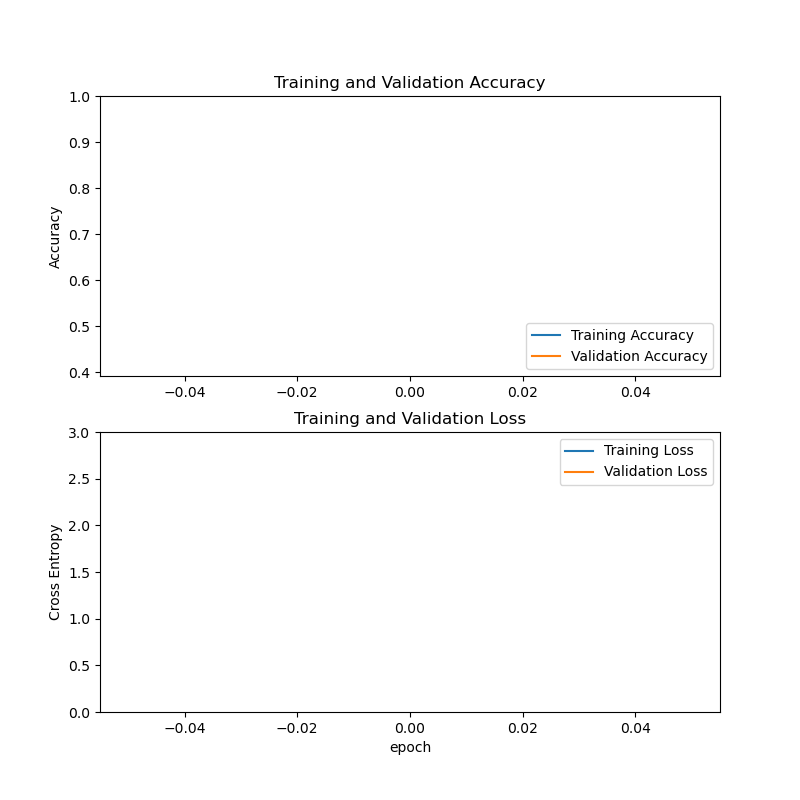
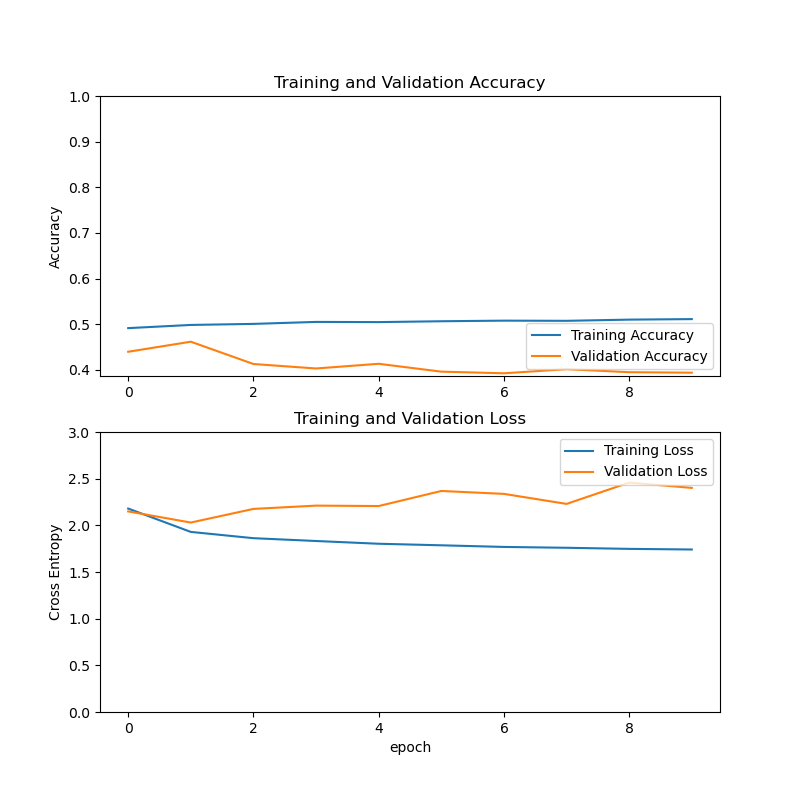
Adding custom cnn

diff --git a/custom/train.py b/custom/train.py
@@ -12,6 +12,7 @@ File description:
 ################################################################################
 # Imports
 from packages import *
+from model import build_model
 
 
 ################################################################################
@@ -38,12 +39,12 @@ if __name__ == "__main__":
     # image generators
     datagen = tf.keras.preprocessing.image.ImageDataGenerator(
         rescale=1./255,
-        rotation_range=30,
-        horizontal_flip=True,
-        vertical_flip=True,
-        width_shift_range=0.3,
-        height_shift_range=0.3,
-        brightness_range=[0.3, 1.3],
+        #rotation_range=30,
+        #horizontal_flip=True,
+        #vertical_flip=True,
+        #width_shift_range=0.3,
+        #height_shift_range=0.3,
+        #brightness_range=[0.3, 1.3],
         validation_split=VALIDATION_SPLIT
     )
 
@@ -62,27 +63,7 @@ if __name__ == "__main__":
     )
 
     # ----- MODEL ----- #
-    # build model
-    mobilenet = tf.keras.applications.MobileNetV2(
-        input_shape=(IMAGE_WIDTH, IMAGE_HEIGHT, IMAGE_CHANNELS),
-        weights="imagenet",
-        include_top=False
-    )
-    mobilenet.trainable = False
-
-    inputs = tf.keras.Input(shape=(IMAGE_WIDTH, IMAGE_HEIGHT, IMAGE_CHANNELS))
-    x = inputs
-    x = mobilenet(x)
-    x = tf.keras.layers.Conv2D(filters=128, kernel_size=3, activation="relu")(x)
-    x = tf.keras.layers.Dropout(rate=0.5)(x)
-    x = tf.keras.layers.GlobalAveragePooling2D()(x)
-    x = tf.keras.layers.Dense(units=num_classes, activation="softmax")(x)
-    outputs = x
-
-    model = tf.keras.Model(
-        inputs=inputs,
-        outputs=outputs
-    )
+    model = build_model(num_classes=num_classes)
 
     # compile model
     model.compile(
@@ -129,63 +110,6 @@ if __name__ == "__main__":
     plt.xlabel('epoch')
 
     plt.savefig(os.path.join(SAVE_DIR, "plots"))
-
-    # ----- FINE TUNE ---- #
-    """
-    print(f'\n\nFINE TUNE\n\n')
-    
-    # re-build model
-    # unfreeze base
-    mobilenet.trainable = True
-    for layer in mobilenet.layers[:NUM_LAYERS_FREEZE]:
-        layer.trainable = False  # freeze early layers
-
-    # re-compile model
-    model.compile(
-        loss=tf.keras.losses.categorical_crossentropy,
-        optimizer=tf.keras.optimizers.SGD(learning_rate=LEARNING_RATE_FINE_TUNING),
-        metrics=["accuracy"]
-    )
-
-    model.summary()
-
-    # continue training
-    history = model.fit(
-        x=train_generator,
-        steps_per_epoch=len(train_generator),
-        epochs=NUM_EPOCHS_FINE_TUNING,
-        validation_data=val_generator,
-        validation_steps=len(val_generator)
-    )
-
-    # fine-tuning plots
-    acc = history.history['accuracy']
-    val_acc = history.history['val_accuracy']
-
-    loss = history.history['loss']
-    val_loss = history.history['val_loss']
-
-    plt.figure(figsize=(8, 8))
-    plt.grid()
-    plt.subplot(2, 1, 1)
-    plt.plot(acc, label='Training Accuracy')
-    plt.plot(val_acc, label='Validation Accuracy')
-    plt.legend(loc='lower right')
-    plt.ylabel('Accuracy')
-    plt.ylim([min(plt.ylim()), 1])
-    plt.title('Training and Validation Accuracy')
-
-    plt.subplot(2, 1, 2)
-    plt.plot(loss, label='Training Loss')
-    plt.plot(val_loss, label='Validation Loss')
-    plt.legend(loc='upper right')
-    plt.ylabel('Cross Entropy')
-    plt.ylim([0, 3.0])
-    plt.title('Training and Validation Loss')
-    plt.xlabel('epoch')
-
-    plt.savefig(os.path.join(SAVE_DIR, "plots_finetune"))
-    """
 
     # ----- SAVE ----- #
     # save model

diff --git a/custom/model.py b/custom/model.py
@@ -1,0 +1,54 @@
+"""
+Michael Patel
+April 2021
+
+Project description:
+    Use TensorFlow to create a Simpsons character classifier that runs on an Android device
+
+File description:
+    For model definitions
+
+"""
+################################################################################
+# Imports
+from packages import *
+
+
+################################################################################
+def build_model(num_classes):
+    def block(t, filters):
+        t = tf.keras.layers.Conv2D(
+            filters=filters,
+            kernel_size=3,
+            padding="same",
+            activation=tf.keras.activations.relu
+        )(t)
+        t = tf.keras.layers.Conv2D(
+            filters=filters,
+            kernel_size=3,
+            padding="same",
+            activation=tf.keras.activations.relu
+        )(t)
+        t = tf.keras.layers.MaxPool2D(
+            pool_size=[2, 2],
+            strides=2
+        )(t)
+        t = tf.keras.layers.Dropout(rate=0.2)(t)
+        return t
+
+    inputs = tf.keras.Input(shape=(IMAGE_WIDTH, IMAGE_HEIGHT, IMAGE_CHANNELS))
+    x = inputs
+    x = block(x, filters=32)
+    x = block(x, filters=64)
+    x = block(x, filters=128)
+    x = tf.keras.layers.Flatten()(x)
+    x = tf.keras.layers.Dense(units=256, activation=tf.keras.activations.relu)(x)
+    x = tf.keras.layers.Dropout(rate=0.5)(x)
+    x = tf.keras.layers.Dense(units=num_classes, activation=tf.keras.activations.softmax)(x)
+    outputs = x
+
+    model = tf.keras.Model(
+        inputs=inputs,
+        outputs=outputs
+    )
+    return model

diff --git a/custom/packages.py b/custom/packages.py
@@ -1,0 +1,35 @@
+"""
+Michael Patel
+April 2021
+
+Project description:
+    Use TensorFlow to create a Simpsons character classifier that runs on an Android device
+
+File description:
+    For imports and model/training hyperparameters
+
+"""
+################################################################################
+# Imports
+import os
+import matplotlib.pyplot as plt
+import tensorflow as tf
+
+
+################################################################################
+# directories
+BASE_DIR = os.getcwd()
+DATA_DIR = os.path.join(BASE_DIR, "data")
+CUSTOM_DIR = os.path.join(BASE_DIR, "custom")
+SAVE_DIR = os.path.join(CUSTOM_DIR, "saved")
+
+# image dimensions
+IMAGE_WIDTH = 224
+IMAGE_HEIGHT = 224
+IMAGE_CHANNELS = 3
+
+# model and training parameters
+NUM_EPOCHS = 10
+BATCH_SIZE = 32
+VALIDATION_SPLIT = 0.2
+LEARNING_RATE = 1e-3  # Adam
